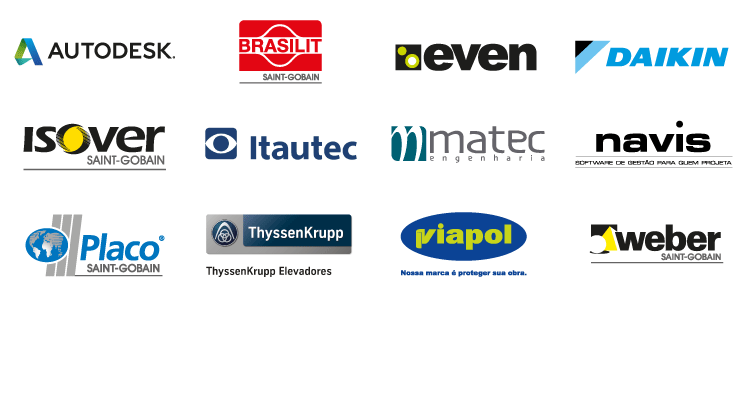
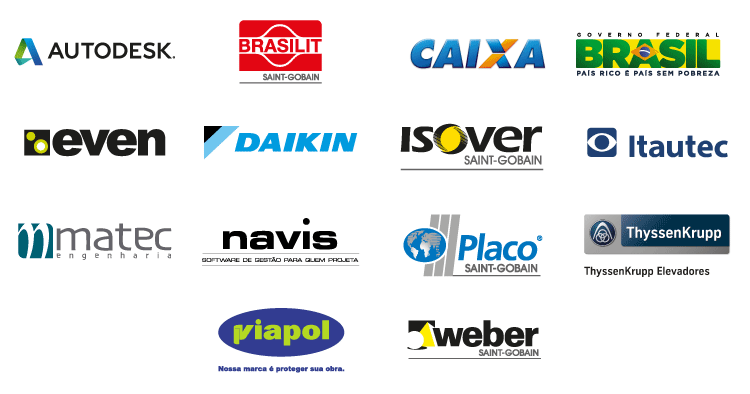
patrocinadores
troca de patrocinadores evento2

diff --git a/db/schema.rb b/db/schema.rb
@@ -135,7 +135,7 @@ ActiveRecord::Schema.define(:version => 20130522011635) do
     t.string   "username"
     t.integer  "item"
     t.string   "table"
-    t.integer  "month",      :limit => 2
+    t.integer  "month"
     t.integer  "year",       :limit => 8
     t.datetime "created_at",              :null => false
     t.datetime "updated_at",              :null => false
